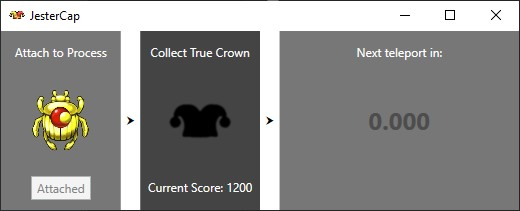
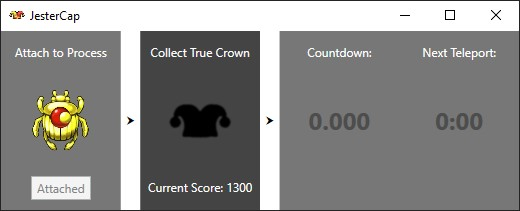
issue 1 - added next teleport timer

Changed region(s): [[0.5846, 0.5403, 0.9538, 0.6256], [0.5846, 0.2275, 0.9538, 0.2844], [0.4308, 0.8815, 0.4615, 0.91]]

diff --git a/JesterCap/MainWindow.xaml b/JesterCap/MainWindow.xaml
@@ -40,9 +40,15 @@
 
         <Border x:Name="PanelTimer" Grid.Column="4" Grid.Row="0" Background="#88000000">
             <Grid>
-                <Label HorizontalAlignment="Center" VerticalAlignment="Top" Padding="5,3,5,3" Margin="0,10,0,10" Foreground="White">Next teleport in:</Label>
-                <Label x:Name="LabelTimer" HorizontalAlignment="Center" VerticalAlignment="Center" Foreground="White" FontWeight="Bold" FontSize="24">0.000</Label>
-                <Image x:Name="BegImage" HorizontalAlignment="Right" VerticalAlignment="Bottom" Source="Resources/beg_icon.png" Height="64" RenderTransformOrigin="0.5,0.5" Margin="0,0,0,-13">
+                <Grid.ColumnDefinitions>
+                    <ColumnDefinition />
+                    <ColumnDefinition />
+                </Grid.ColumnDefinitions>
+                <Label Grid.Column="0" HorizontalAlignment="Center" VerticalAlignment="Top" Padding="5,3,5,3" Margin="0,10,0,10" Foreground="White">Countdown:</Label>
+                <Label x:Name="LabelTimer" Grid.Column="0" HorizontalAlignment="Center" VerticalAlignment="Center" Foreground="White" FontWeight="Bold" FontSize="24">22.000</Label>
+                <Label Grid.Column="1" HorizontalAlignment="Center" VerticalAlignment="Top" Padding="5,3,5,3" Margin="0,10,0,10" Foreground="White">Next Teleport:</Label>
+                <Label x:Name="LabelNextTeleport" Grid.Column="1" HorizontalAlignment="Center" VerticalAlignment="Center" Foreground="White" FontWeight="Bold" FontSize="24">22.000</Label>
+                <Image Grid.Column="1" x:Name="BegImage" HorizontalAlignment="Right" VerticalAlignment="Bottom" Source="Resources/beg_icon.png" Height="64" RenderTransformOrigin="0.5,0.5" Margin="0,0,0,-13">
                     <Image.RenderTransform>
                         <TransformGroup>
                             <ScaleTransform/>

diff --git a/JesterCap/MainWindow.xaml.cs b/JesterCap/MainWindow.xaml.cs
@@ -113,11 +113,14 @@ namespace JesterCap
                 crownTimerStartFrame = 0;
             }
             int framesUntilTeleport = TELEPORT_FRAME_INTERVAL - (currentFrame - crownTimerStartFrame) % TELEPORT_FRAME_INTERVAL;
+            int numTeleportsThisLevel = (int)Math.Floor(currentFrame / (double)TELEPORT_FRAME_INTERVAL);
+            int nextTeleportFrame = (numTeleportsThisLevel + 1) * TELEPORT_FRAME_INTERVAL + crownTimerStartFrame;
             double secondsUntilTeleport = framesUntilTeleport / 60.000;
+            double nextTeleportSeconds = nextTeleportFrame / 60.000;
             if (secondsUntilTeleport < NOTIFICATION_SOUND_DELAY && !soundPlayed)
             {
-                PlayNotificationSound();
                 soundPlayed = true;
+                PlayNotificationSound();
             }
             if (framesUntilTeleport > lastFramesUntilTeleport)
             {
@@ -126,6 +129,7 @@ namespace JesterCap
             Dispatcher.Invoke(() =>
             {
                 LabelTimer.Content = string.Format("{0:0.000}", secondsUntilTeleport);
+                LabelNextTeleport.Content = string.Format("{0:0}:{1:00}", Math.Floor(nextTeleportSeconds / 60.0), nextTeleportSeconds % 60);
             });
             lastFramesUntilTeleport = framesUntilTeleport;
         }
@@ -201,9 +205,11 @@ namespace JesterCap
 
             PanelTimer.Background = CreateBrush(active ? COLOR_PANEL_BG_ACTIVE : COLOR_PANEL_BG_INACTIVE);
             LabelTimer.Foreground = CreateBrush(active ? COLOR_LABEL_TIMER_ACTIVE : COLOR_LABEL_TIMER_INACTIVE);
+            LabelNextTeleport.Foreground = CreateBrush(active ? COLOR_LABEL_TIMER_ACTIVE : COLOR_LABEL_TIMER_INACTIVE);
             if (!active)
             {
                 LabelTimer.Content = "0.000";
+                LabelNextTeleport.Content = "0:00";
             }
             BegImage.Opacity = active ? 1 : 0;
         }

diff --git a/README.md b/README.md
@@ -17,6 +17,10 @@ JesterCap is a helper application that runs alongside [Spelunky 2](https://store
 * Timer resets upon entering a new level
 * The `Resources/notification.wav` file can be replaced to an alert sound of your choosing
 
+## Known Issues
+* Attaching to the Spelunky 2 process while on a True Crown run will cause the countdown timer to display incorrectly. This happens because there's no way for JesterCap to detect when the True Crown was picked up if JesterCap wasn't running at the time. To work around this problem, make sure JesterCap is running when the True Crown is picked up.
+  * This issue will resolve itself upon moving to the next level. 
+
 ## Future Improvements
 * Ability to configure when the notification sound is played, or have multiple notification sounds
 * Bugfixes. Testing the True Crown is hard (even using the `ABACAB00` seed).
